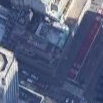
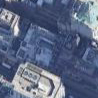
webPart Working

diff --git a/controllers/home.js b/controllers/home.js
@@ -80,13 +80,7 @@ exports.cutSingleImage = async (req, res) => {
 
   // *******
 
-  console.log(
-    "this function is being called, request variable ",
-    req.body,
-    " response variable\n\n\n **************************\n***********************\n***********************\n\n\n"
-  );
-
-  let { realPosition, gpsPosition, imagePath, index } = req.body;
+  let { realPositions, gpsPositions, imagePath, index } = req.body;
   // *******
 
   //   console.log("hello", req);
@@ -96,31 +90,24 @@ exports.cutSingleImage = async (req, res) => {
   if (index == 0) {
     await deleteAllFilesFromDirectory("public/images");
   }
-  let i = index;
+
   await cropImage(
     imagePath,
-    `public/images/result${i}.png`,
-    realPosition.x,
-    realPosition.y,
-    realPosition.x - realPosition.x,
-    realPosition.y - realPosition.y
+    `public/images/result${index}.png`,
+    realPositions.x1,
+    realPositions.y1,
+    realPositions.x2 - realPositions.x1,
+    realPositions.y2 - realPositions.y1
   );
 
-  // *******
-  console.log(gpsPosition);
-  console.log(realPosition);
-  console.log("*******************************************");
-  if (gpsPosition != undefined && i < gpsPosition.length) {
-    await cropImage(
-      imagePath,
-      `public/attacked_images/result${i}.png`,
-      gpsPosition.x,
-      gpsPosition.y,
-      gpsPosition.x - gpsPosition.x,
-      gpsPosition.y - gpsPosition.y
-    );
-    // console.log("Gps", gpsPosition, index);
-  }
+  await cropImage(
+    imagePath,
+    `public/attacked_images/result${index}.png`,
+    gpsPositions.x1,
+    gpsPositions.y1,
+    gpsPositions.x2 - gpsPositions.x1,
+    gpsPositions.y2 - gpsPositions.y1
+  );
   // ********
 
   res.send({ message: "success" });
@@ -136,7 +123,7 @@ async function cropImage(origin, destination, x, y, width, height) {
             // .resize(256, 256) // resize
             .quality(100) // set JPEG quality
             // .greyscale() // set greyscale
-            .crop(x, y, width, height)
+            .crop(parseInt(x), parseInt(y), parseInt(width), parseInt(height))
             .write(destination) // save
         );
       })

diff --git a/public/js/main.js b/public/js/main.js
@@ -304,15 +304,15 @@ window.onload = function () {
   }
 
   function sendPositionToServer() {
-    console.log(`sending to server:${JSON.stringify(gpsPositions)}`);
+    console.log(`sending too server:${JSON.stringify(gpsPositions)}`);
     // e.preventDefault();
     $.ajax({
       type: "POST",
       url: "/cutsingleimage",
       dataType: "json",
       data: {
-        realPosition: realPosition,
-        gpsPosition: gpsPosition,
+        realPositions: realPositions[realPositions.length - 1],
+        gpsPositions: gpsPositions[gpsPositions.length - 1],
         imagePath: "public/" + imageUrl,
         index: realPositions.length - 1,
       },
